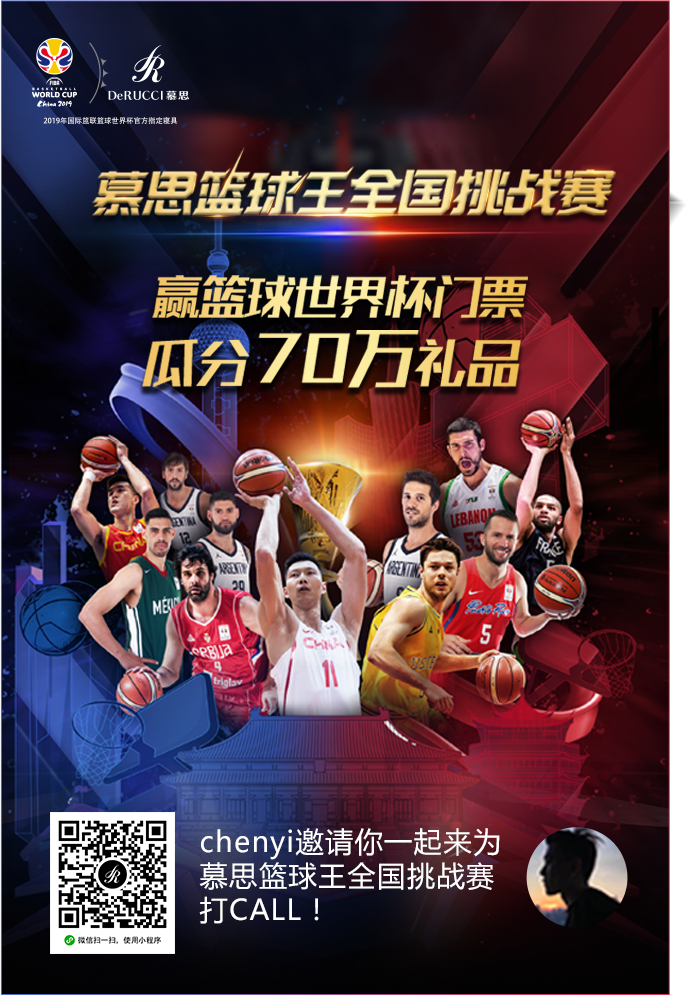
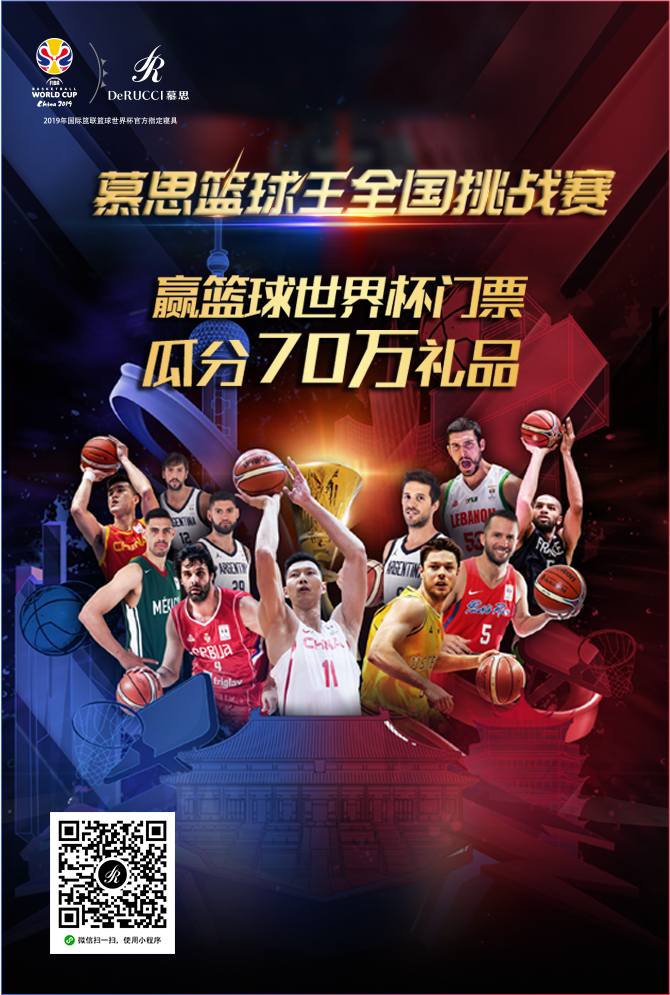
完成

diff --git a/components/homeCmp/posterCmp/cmp.js b/components/homeCmp/posterCmp/cmp.js
@@ -12,7 +12,8 @@ Component({
     tmpPath: '',
     saveStatus: false,
     via: "https://wx.qlogo.cn/mmopen/vi_32/Q0j4TwGTfTK9yeom1bMibtfgcTFV2AV2tickQgib6rwzxmibFibWpHYxPMBn1T6RfE5o7HenfuXEBb1w2ibDSFeCMibow/132",
-    cardCreateImgUrl: "https://mobiletest.derucci.net/web/musiMall/images/poster.png"
+    cardCreateImgUrl: "https://mobiletest.derucci.net/web/musiMall/images/poster.png",
+    bgImg: "../../../images/poster.png"
   },
   ready() {
     this.openAndDraw()
@@ -20,33 +21,44 @@ Component({
   methods: {
     openAndDraw() {
       var ctx = wx.createCanvasContext('canvasIn',this)
-      this.setBg(ctx)
-    },
-    // 第一步绘制背景图片
-    setBg (context) {
+      const that = this
       wx.showLoading({
         title: '生成中',
       })
-      
-      var that = this;
-      var path = that.data.cardCreateImgUrl
+      wx.downloadFile({
+        url: that.data.cardCreateImgUrl,
+        success: function (sres) {
+          // that.data.mysrc = sres.tempFilePath
+          wx.downloadFile({
+            url: that.data.imgUrl,
+            success(res) {
+              that.setBg(ctx,sres.tempFilePath,res.tempFilePath)
+            }
+          })
+
+        }
+      })
+    },
+    // 第一步绘制背景图片
+    setBg (context,path,viaPath) {
+      const that = this;
       wx.getImageInfo({
         src: path,
         success: function (res) {
           var path = res.path;
-          context.drawImage(path, 24, 45, 334, 500);
+          context.drawImage(path, 0, 0, 334, 500);
           //添加文字
           var text = `${that.data.name}邀请你一起来为慕思篮球王全国挑战赛打CALL !`;//这是要绘制的文本
           that.setText(context,text)
           //绘制完背景图之后绘制头像
-          that.setHandle(context)
+          that.setHandle(context,viaPath)
         }
       })
     },
     //第三个绘制指纹图片
-    setHandle (context) {
+    setHandle (context,HandleUrl) {
       var that = this;
-      var HandleUrl = this.data.imgUrl;
+      // var HandleUrl = this.data.imgUrl;
       wx.getImageInfo({
         src: HandleUrl,
         success: function (res) {
@@ -54,32 +66,40 @@ Component({
           // context.drawImage(path, 280, 500, 50, 50);
           context.save();
           context.beginPath()//开始创建一个路径
-          context.arc(305, 485, 25, 0, 2 * Math.PI, false)//画一个圆形裁剪区域
+          context.arc(285, 445, 25, 0, 2 * Math.PI, false)//画一个圆形裁剪区域
           context.clip()//裁剪
-          context.drawImage(path, 280, 460, 50, 50)//绘制图片
+          context.drawImage(path, 260, 420, 50, 50)//绘制图片
   
           context.restore();
           context.stroke();
-          //绘制的最后一张图片绘制完之后回调生成图片
-          context.draw(false, function (e) {
-            console.log("绘制完成之后回调")
-            wx.canvasToTempFilePath({
-              canvasId: 'mycanvas',
-              success: function (res) {
-                var tempFilePath = res.tempFilePath;
-                console.log(tempFilePath);
-                that.setData({
-                  newImage: tempFilePath,
-                })
-                wx.hideToast()
-              },
-              fail: function (res) {
-                console.log(res);
-              }
-            });
-            wx.hideLoading()
 
-          })
+          context.draw()
+          //绘制的最后一张图片绘制完之后回调生成图片
+          wx.canvasToTempFilePath({
+            canvasId: 'canvasIn',
+            success: (res) => {
+              console.log('suc',res)
+              wx.hideLoading()
+
+            },
+            fail: (res) => {
+              console.log('err',res);
+            }
+          },that);
+  
+          // context.draw(false, wx.canvasToTempFilePath({
+          //   canvasId: 'canvasIn',
+          //   success: function (res) {
+          //     var tempFilePath = res.tempFilePath;
+          //     console.log(tempFilePath);
+          //     that.setData({
+          //       newImage: tempFilePath,
+          //     });
+          //   },
+          //   fail: function (res) {
+          //     console.log(res);
+          //   }
+          // }),this);
         },
         fail: function (res) {
           console.log(res);
@@ -95,7 +115,7 @@ Component({
       context.setFontSize(14)
       context.setFillStyle("#fff")
       for (var a = 0; a < chr.length; a++) {
-        if (context.measureText(temp).width < 140) {
+        if (context.measureText(temp).width < 135) {
           temp += chr[a];
         }
         else {
@@ -106,13 +126,14 @@ Component({
       }
       row.push(temp);
       for (var b = 0; b < row.length; b++) {
-        context.fillText(row[b], 125, 470 + b * 20, 140);
+        context.fillText(row[b], 110, 430 + b * 20, 135);
       }
       context.restore();
       context.stroke();
     },
     //取消保存
     handleCancle() {
+      wx.hideLoading()
       console.log('cancle')  
       this.triggerEvent("handleSavePoster",{cancle: true})
       this.triggerEvent("closePoster",true)

diff --git a/utils/canvasText.js b/utils/canvasText.js
@@ -1,0 +1,64 @@
+/**
+ * @desc canvas文字过长换行脚本
+ * @param {Object} ctx canvas对象
+ * @param {String} text 文字
+ * @param {Number} x 距离左边的宽度
+ * @param {Number} y 距离右边的宽度
+ * @param {Number} w 文本区域的宽度
+ * @param {Object} fontStyle 文本的字体风格/位置，有默认值
+ */
+const CTB = ({
+  ctx,
+  text,
+  x,
+  y,
+  w,
+  fontStyle: {
+    lineHeight = 60,
+    textAlign = 'left',
+    textBaseline = 'top',
+    font = 'normal 40px arial',
+    fillStyle = '#000000'
+  }
+}) => {
+  ctx.save();
+  ctx.font = font;
+  ctx.fillStyle = fillStyle;
+  ctx.textAlign = textAlign;
+  ctx.textBaseline = textBaseline;
+  const chr = text.split('');
+  const row = [];
+  let temp = '';
+
+  /*
+  判断如果末尾是，！。》 就不要换行
+  判断如果末尾是《 就要换行
+  */
+  for (let a = 0; a < chr.length; a++) {
+    if (ctx.measureText(temp).width < w) { } else {
+      if (/[，。！》]/im.test(chr[a])) {
+        // console.log(`我是${chr[a]},我在末尾,我不换行`);
+        temp += ` ${chr[a]}`;
+        // 跳过这个字符
+        a++;
+      }
+      if (/[《]/im.test(chr[a - 1])) {
+        // console.log(`我是${chr[a-1]},我在末尾,我要换行`);
+        // 删除这个字符
+        temp = temp.substr(0, temp.length - 1);
+        a--;
+      }
+
+      row.push(temp);
+      temp = '';
+    }
+
+    temp += chr[a] ? chr[a] : '';
+  }
+  row.push(temp);
+  for (let b = 0; b < row.length; b++) {
+    ctx.fillText(row[b], x, y + b * lineHeight);
+  }
+  ctx.restore();
+};
+export default CTB;

diff --git a/pages/basketSignUp/basketSignUp.js b/pages/basketSignUp/basketSignUp.js
@@ -112,6 +112,7 @@ Page({
 
   //初始地区选择框
   initAreaArr() {
+    this._showLoading()
     let multiArray = this.data.multiArray
     this._getRegion(2).then(res => {
       let provinceArr = [],
@@ -125,12 +126,14 @@ Page({
       //如果没有省的话返回空
       // console.log(1111,provinceArr)
       if (!provinceArr.length) {
+        this._hideLoading()
         return
       }
       const id = provinceIdArr[0]
       let cityIdArr = []
       this._getRegion(3 ,id).then(res => {
         let cityArr = []
+        this._hideLoading()
         res.forEach(item => {
           if (!item.chooseStatus) {
             cityArr.push(item.name)
@@ -184,6 +187,7 @@ Page({
   },
   //获取地区
   _getRegion(type, parentId) {
+    this._showLoading()
     return new Promise((resolve, reject) => {
       let obj = {}
       obj.type = type
@@ -192,6 +196,7 @@ Page({
       }
       indexModel.getRegionForBasketballActivities(obj).then(res => {
         if(res.data) {
+          this._hideLoading()
           resolve(res.data)
         }
       })
@@ -313,7 +318,9 @@ Page({
     this._signUp(obj)
   },
   _signUp(obj) {
+    this._showLoading()
     indexModel.signUp(obj).then(res => {
+      this._hideLoading()
       if (res.data) {
         this._handleSignStatus()
       } else {
@@ -352,5 +359,14 @@ Page({
     })
   },
 
+  _showLoading() {
+    wx.showLoading({
+      title: '加载中',
+      mask: true
+    })
+  },
+  _hideLoading() {
+    wx.hideLoading()
+  }
 
 })

diff --git a/utils/request.js b/utils/request.js
@@ -9,10 +9,10 @@ class Request {
   refreshToken = ''
   getData({ url, data = {}, method = "post" }) {
     return new Promise((resolve, reject) => {
-      wx.showLoading({
-        title: '加载中',
-        mask: true
-      })
+      // wx.showLoading({
+      //   title: '加载中',
+      //   mask: true
+      // })
       wx.request({
         url: this.baseUrl + url,
         method: method,
@@ -22,7 +22,7 @@ class Request {
         responseType: 'text',
         success: res => {
           if (res.data) {
-            wx.hideLoading()
+            // wx.hideLoading()
             resolve(res.data)
           }
         },
@@ -36,10 +36,10 @@ class Request {
   //有token
   getSecretData({ url, data = {}}) {
     return new Promise((resolve, reject) => {
-      wx.showLoading({
-        title: '加载中',
-        mask: true
-      })
+      // wx.showLoading({
+      //   title: '加载中',
+      //   mask: true
+      // })
       this._getToken().then(res => {
         if (res.access_token) {
           wx.setStorage({
@@ -59,7 +59,7 @@ class Request {
             dataType: 'json',
             responseType: 'text',
             success: res => {
-              wx.hideLoading()
+              // wx.hideLoading()
               if (res.data) {
                 resolve(res.data)
               }
